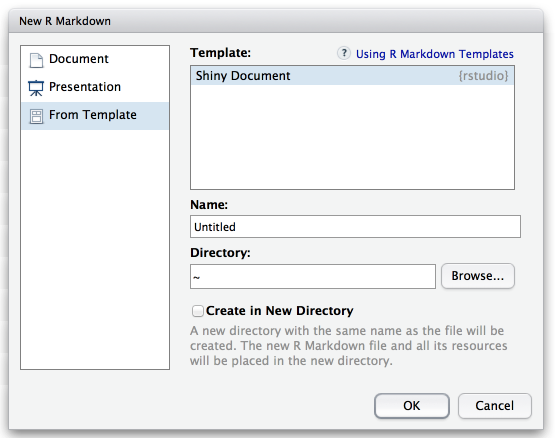
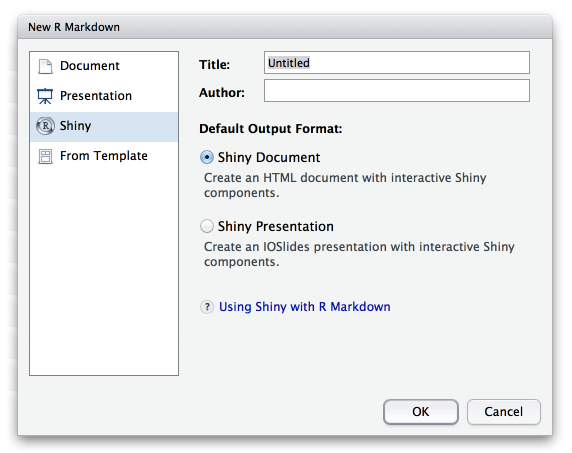
update shiny in r markdown docs and screenshot

Changed region(s): [[0.0, 0.0, 1.0, 1.0], [0.7658, 0.5936, 0.8883, 0.653]]

diff --git a/index.html b/index.html
@@ -243,7 +243,7 @@ output:
 <ul>
 <li><p><a href="authoring_basics.html">Markdown Basics</a>, which describes the most commonly used markdown constructs.</p></li>
 <li><p><a href="authoring_rcodechunks.html">R Code Chunks</a>, which goes into more depth on customizing the behavior of embedded R code.</p></li>
-<li><p><a href="authoring_shiny.html">Shiny in R Markdown</a>, which describes how to include Shiny components within R Markdown documents.</p></li>
+<li><p><a href="authoring_shiny.html">Using Shiny with R Markdown</a>, which describes how to include Shiny components within R Markdown documents.</p></li>
 <li><p><a href="authoring_compile_notebook.html">Compiling Notebooks</a>, which describes how to compile HTML, PDF, or MS Word notebooks from R scripts.</p></li>
 <li><p>Document output formats: <a href="html_document_format.html">HTML</a>, <a href="pdf_document_format.html">PDF</a>, <a href="word_document_format.html">Word</a></p></li>
 <li><p>Presentation output formats: <a href="ioslides_presentation_format.html">ioslides</a>, <a href="revealjs_presentation_format.html">reveal.js</a>, <a href="beamer_presentation_format.html">Beamer</a></p></li>

diff --git a/authoring_shiny.html b/authoring_shiny.html
@@ -11,7 +11,7 @@
 
 
 
-<title>Shiny in R Markdown</title>
+<title>Using Shiny with R Markdown</title>
 
 <script src="libs/jquery-1.11.0/jquery.min.js"></script>
 <meta name="viewport" content="width=device-width, initial-scale=1.0" />
@@ -62,6 +62,13 @@ body {
     background-color: white;
   }
 </style>
+<script type="text/javascript">
+if (window.hljs && document.readyState && document.readyState === "complete") {
+   window.setTimeout(function() {
+      hljs.initHighlighting();
+   }, 0);
+}
+</script>
 
 
 
@@ -136,7 +143,7 @@ body {
 <div class="span10 offset1">
 
 <div id="header">
-<h1 class="title">Shiny in R Markdown</h1>
+<h1 class="title">Using Shiny with R Markdown</h1>
 </div>
 
 <div id="TOC">

diff --git a/authoring_shiny.md b/authoring_shiny.md
@@ -1,5 +1,5 @@
 ---
-title: "Shiny in R Markdown"
+title: "Using Shiny with R Markdown"
 output: 
   html_document:
     toc: true
